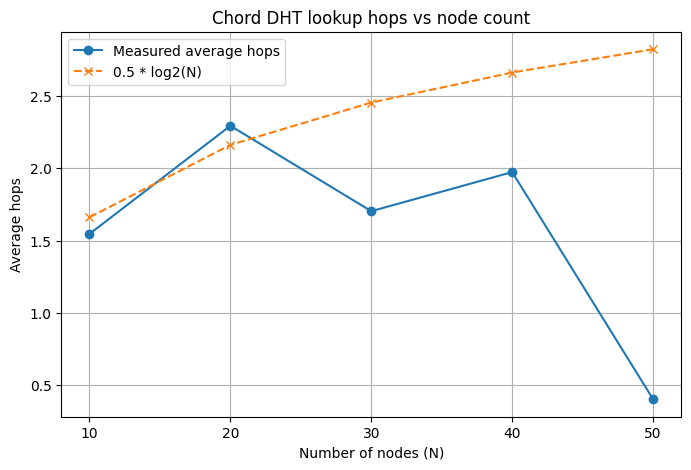
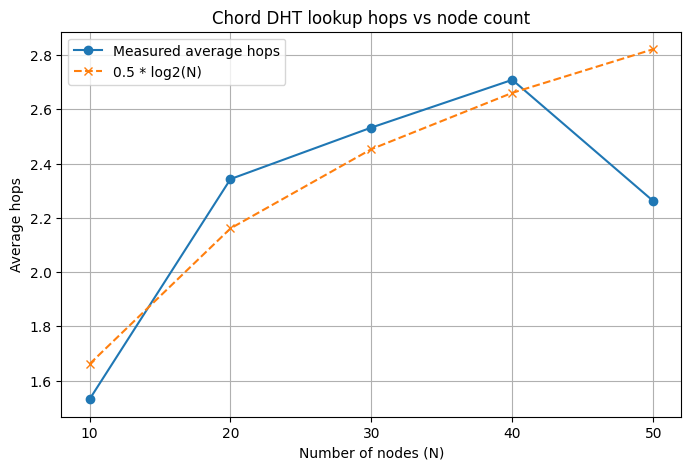
update README.md

diff --git a/README.md b/README.md
@@ -71,13 +71,20 @@ python analysis/simulate_queries.py --node-count 50 --queries 1000 --output anal
 Chạy toàn bộ N=10..50, mỗi lần tự tạo compose và restart Docker:
 
 ```powershell
-python analysis/run_experiments.py --node-counts 10,20,30,40,50 --queries 1000
+python analysis/run_experiments.py --node-counts 10,20,30,40,50 --queries 1000 --wait-seconds 80
 ```
+Thời gian chờ là 80 giây để các nút kết nối thành một vòng băm ổn định
 
 Kết quả:
 
 - CSV: `analysis/results/hop_results.csv`
 - Chart: `chord_analysis_chart.png`
+
+## Tắt docker
+
+```powershell
+docker-compose down
+```
 
 ## Lý do hop count gần O(log N)
 